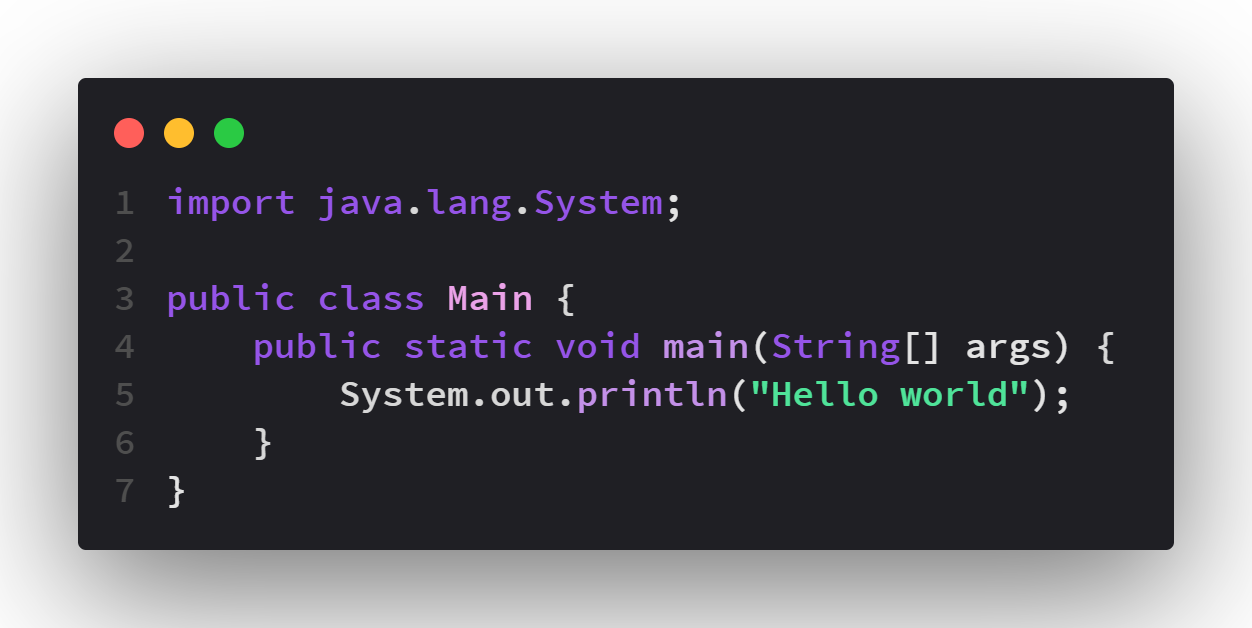
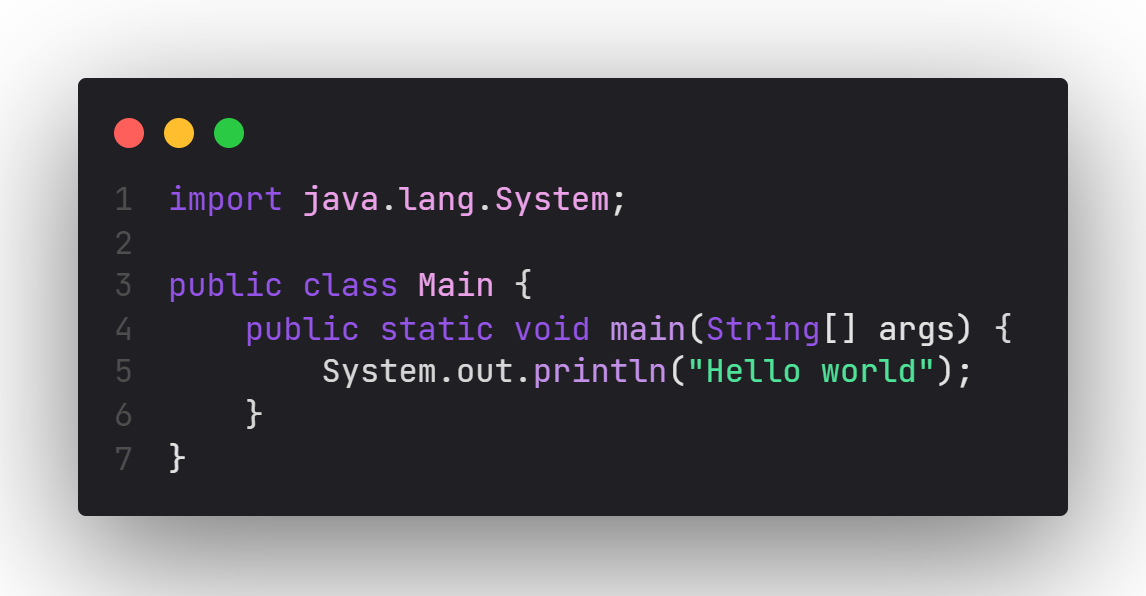
v0.1.4: Bugfixes

Changed region(s): [[0.0611, 0.1208, 0.9468, 0.8758], [0.1832, 0.6644, 0.2443, 0.7248]]

diff --git a/CHANGELOG.md b/CHANGELOG.md
@@ -1,4 +1,4 @@
-# LiVer v0.1.3 Changelog
+# LiVer v0.1.4 Changelog
 
 ## Version 0.0.x
 
@@ -75,3 +75,22 @@ showcase their old age.
 Add preview screenshots to README.md. I didn't want to increment the
 patch number but `vsce` said I could not publish liver with the same
 semver and twisted my arm into doing it.
+
+## Version 0.1.4
+
+Add imported objects to "Types, Class, Support" and rename it to
+"Types, Class, Support, Imports". This fixes the bug where imports
+in Java are blue-violet but should instead be lilac like all class
+names.
+
+Set "source.toml punctuation.definition.table.toml" to "Punctuation"
+so that it doesn't appear purple.
+
+Explicitly include "constant.other.boolean" to "Builtin Variables".
+
+Add "constant.other.date" and "constant.other.datetime" to "Numbers"
+so they are rendered like numbers in languages like TOML.
+
+Add TOML to screenshots folder.
+
+Add "punctuation.definition.metadata" to "Markdown Delimiter".

diff --git a/README.md b/README.md
@@ -1,4 +1,4 @@
-# LiVer v0.1.3
+# LiVer v0.1.4
 
 *[Github Repo](https://github.com/RenoirTan/liver)*
 
